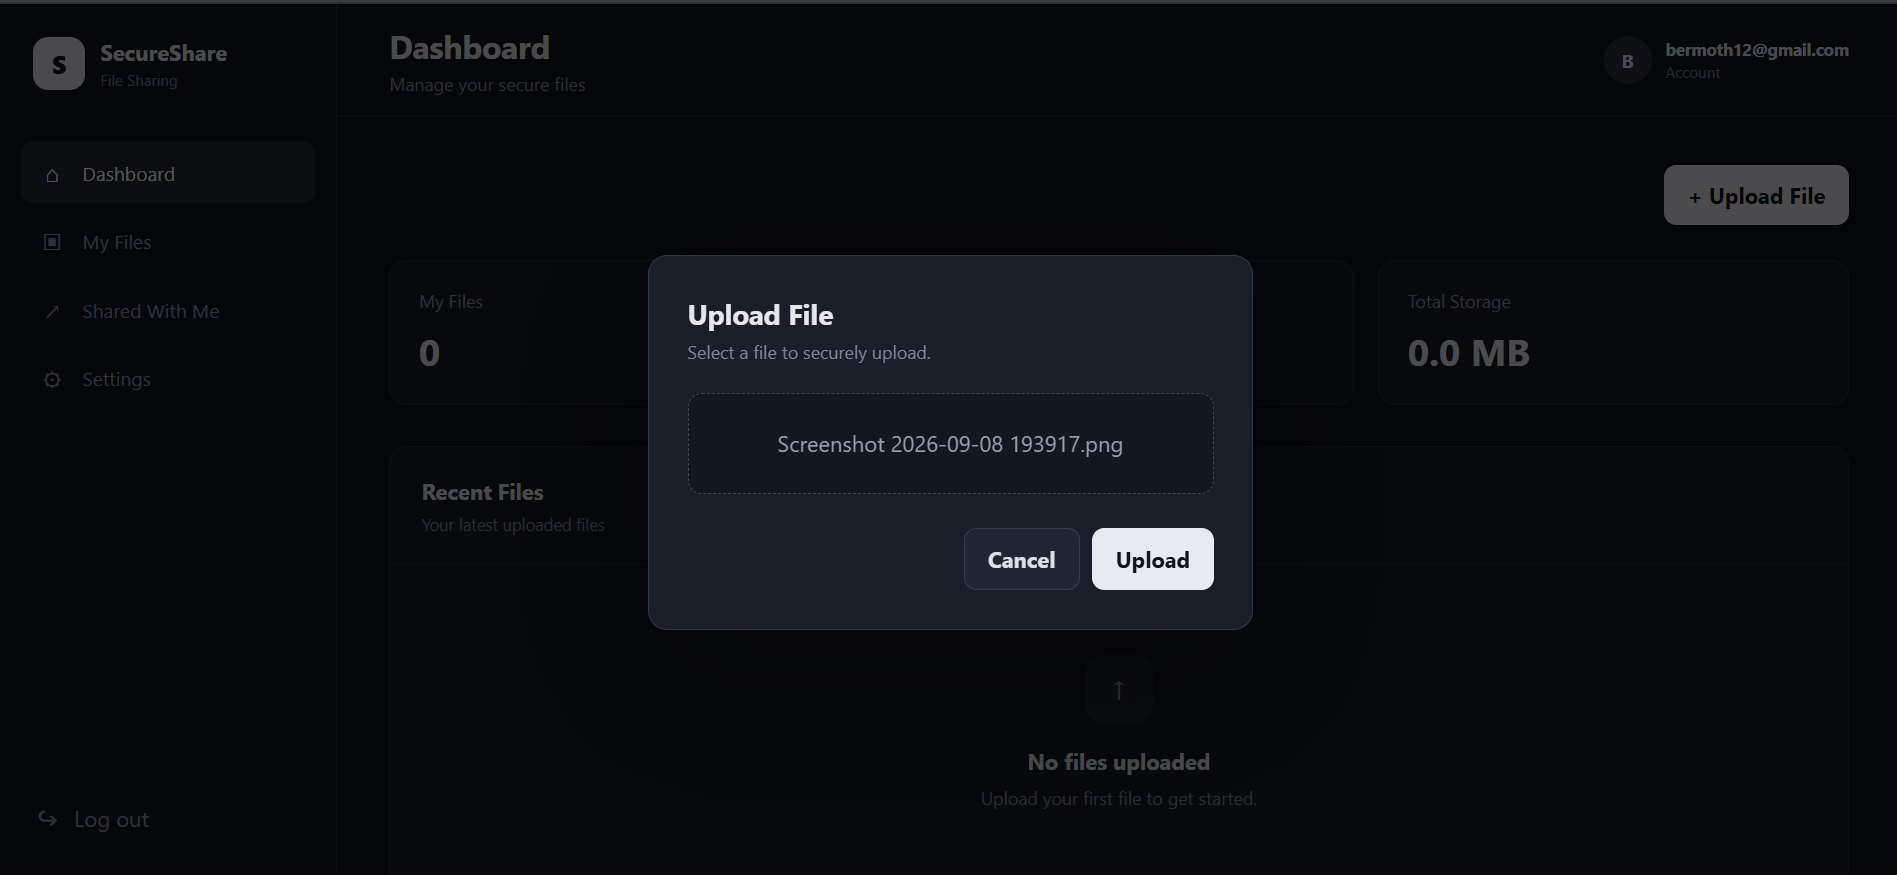
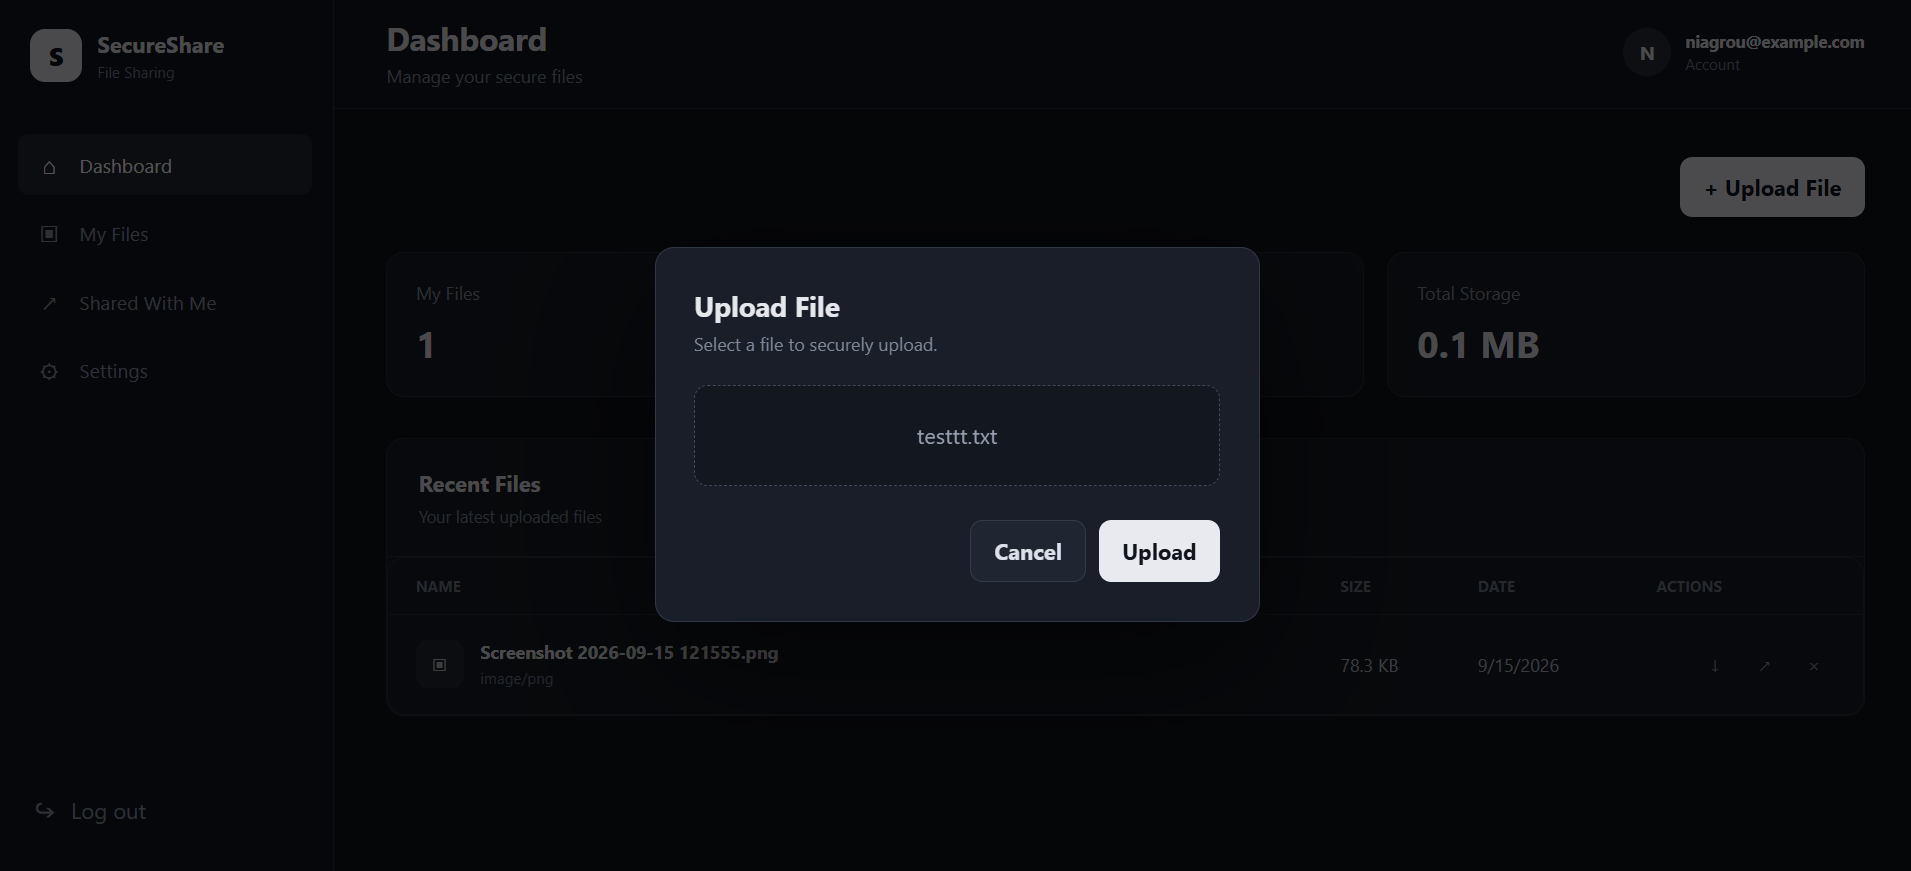
Update README documentation

diff --git a/README.md b/README.md
@@ -50,6 +50,7 @@ I built this project to practice backend development with Spring Boot and to lea
 * See who has access to a file
 * Revoke access to a shared file
 * View files shared with you
+* Protected file access based on ownership and sharing permissions
 
 ## Technologies
 
@@ -62,6 +63,7 @@ I built this project to practice backend development with Spring Boot and to lea
 * Spring Data JPA / Hibernate
 * PostgreSQL
 * Maven
+* AES-256-GCM
 
 ### Frontend
 
@@ -152,9 +154,9 @@ Create a `.env` file in the project root:
 ```env
 POSTGRES_PASSWORD=your_database_password
 JWT_SECRET=your_jwt_secret
+FILE_ENCRYPTION_KEY=your_base64_encoded_32_byte_key
 ```
-
-The `.env` file should not be committed to Git.
+The FILE_ENCRYPTION_KEY is a Base64-encoded 32-byte key used for AES-256-GCM file encryption.
 
 ## API
 
@@ -187,6 +189,19 @@ Only the owner of a file can delete it, share it or revoke access.
 
 Sensitive configuration such as the database password and JWT secret is stored in environment variables.
 
+
+## File Encryption
+
+Uploaded files are encrypted before being stored on the server using AES-256-GCM.
+
+Each encrypted file has its own randomly generated initialization vector (IV), which is stored with the encrypted data. The encryption key is kept separately in an environment variable.
+
+The database stores file metadata such as the original filename, size and storage path. The actual file contents are stored in the Docker file-storage volume in encrypted form.
+
+When an authorized user downloads a file, the backend decrypts it and returns the original file to the user.
+
+Sensitive configuration such as the database password, JWT secret and file encryption key is stored in environment variables.
+
 ## Docker
 
 The project uses Docker Compose to run the backend and PostgreSQL database.
@@ -204,7 +219,6 @@ The backend is built from the Spring Boot application and PostgreSQL uses the of
 
 Some things that could be added in the future:
 
-* File encryption at rest
 * File size and type restrictions
 * Password reset
 * Email notifications
